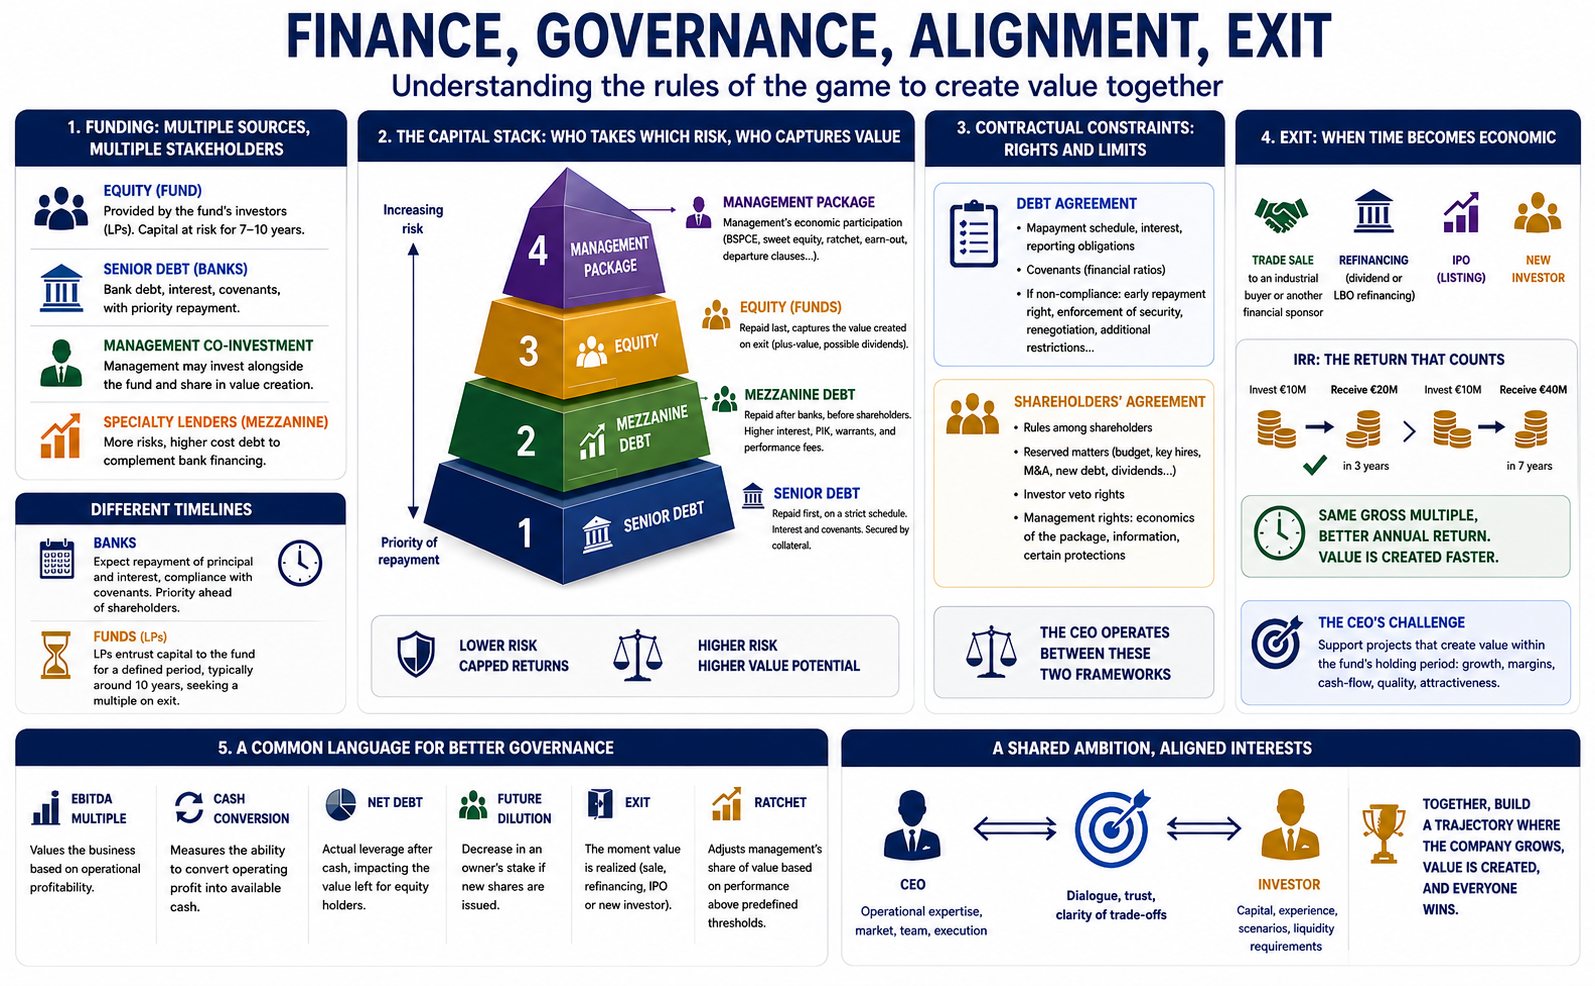
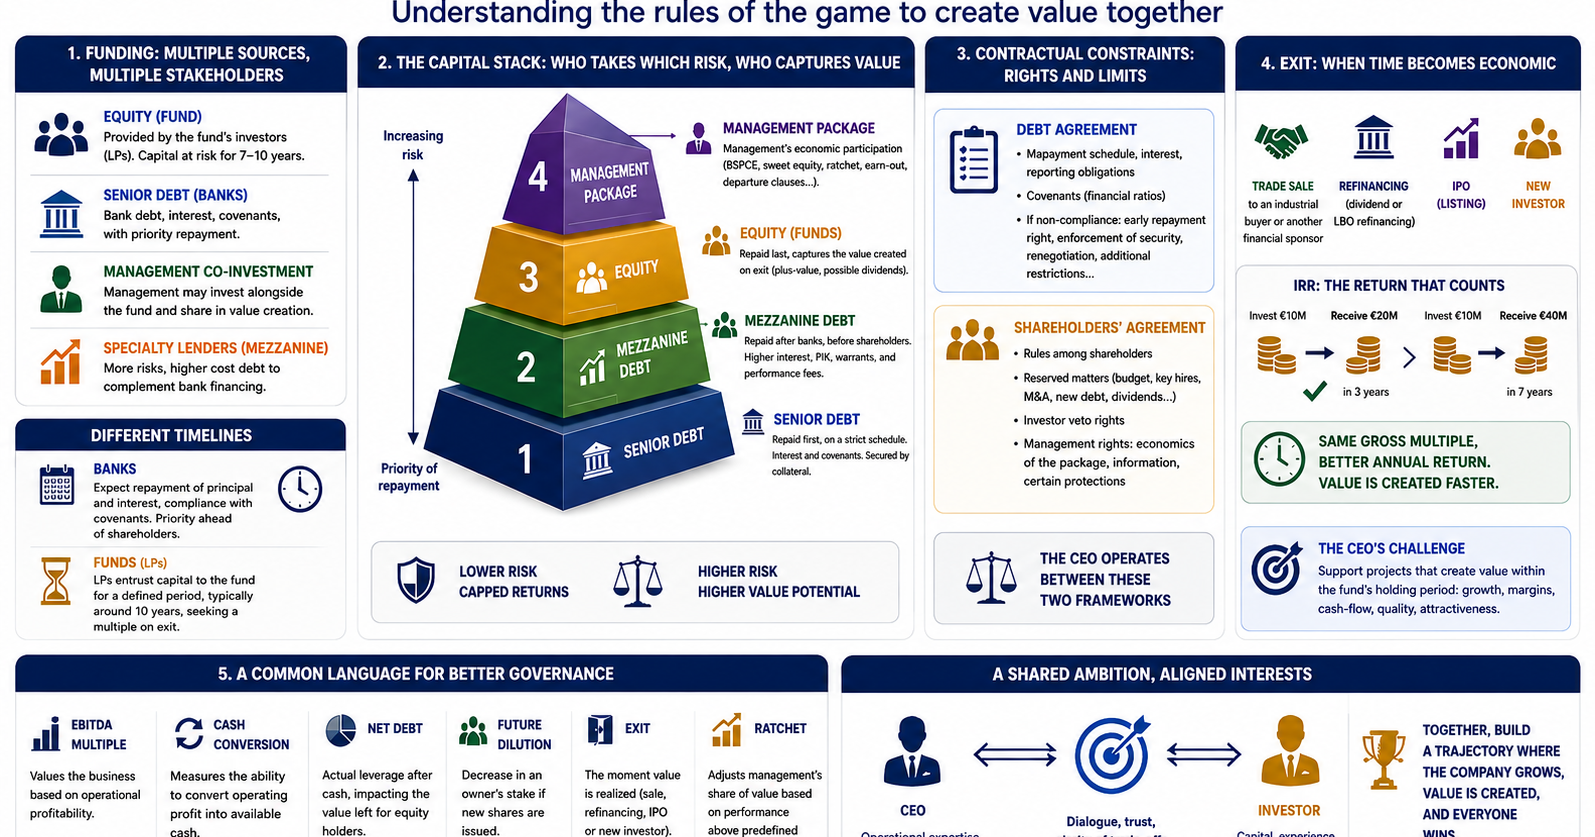
fix(ui): enforce consistent aspect-ratio on persp-card-img + crop EN haut-de-bilan image
- Add aspect-ratio: 800/420; object-fit: cover to .persp-card-img so all grid cards are uniform
- Crop illus-haut-de-bilan-en.png from 1595x986 to 1595x837 (correct 800:420 ratio)

diff --git a/assets/css/main.css b/assets/css/main.css
@@ -522,7 +522,7 @@ body {
   overflow: hidden; background: var(--cream-dark); transition: border-color 0.2s;
 }
 .persp-card:hover { border-color: rgba(154,114,40,0.55); }
-.persp-card-img { width: 100%; height: auto; display: block; border-bottom: 0.5px solid var(--gold-border); }
+.persp-card-img { width: 100%; height: auto; display: block; border-bottom: 0.5px solid var(--gold-border); aspect-ratio: 800 / 420; object-fit: cover; }
 .persp-card-body { padding: 20px 22px; flex: 1; display: flex; flex-direction: column; }
 .article-illus { margin-bottom: 36px; border-radius: 2px; overflow: hidden; border: 0.5px solid var(--gold-border); }
 .article-illus-img { width: 100%; height: auto; display: block; cursor: zoom-in; aspect-ratio: 800 / 420; }